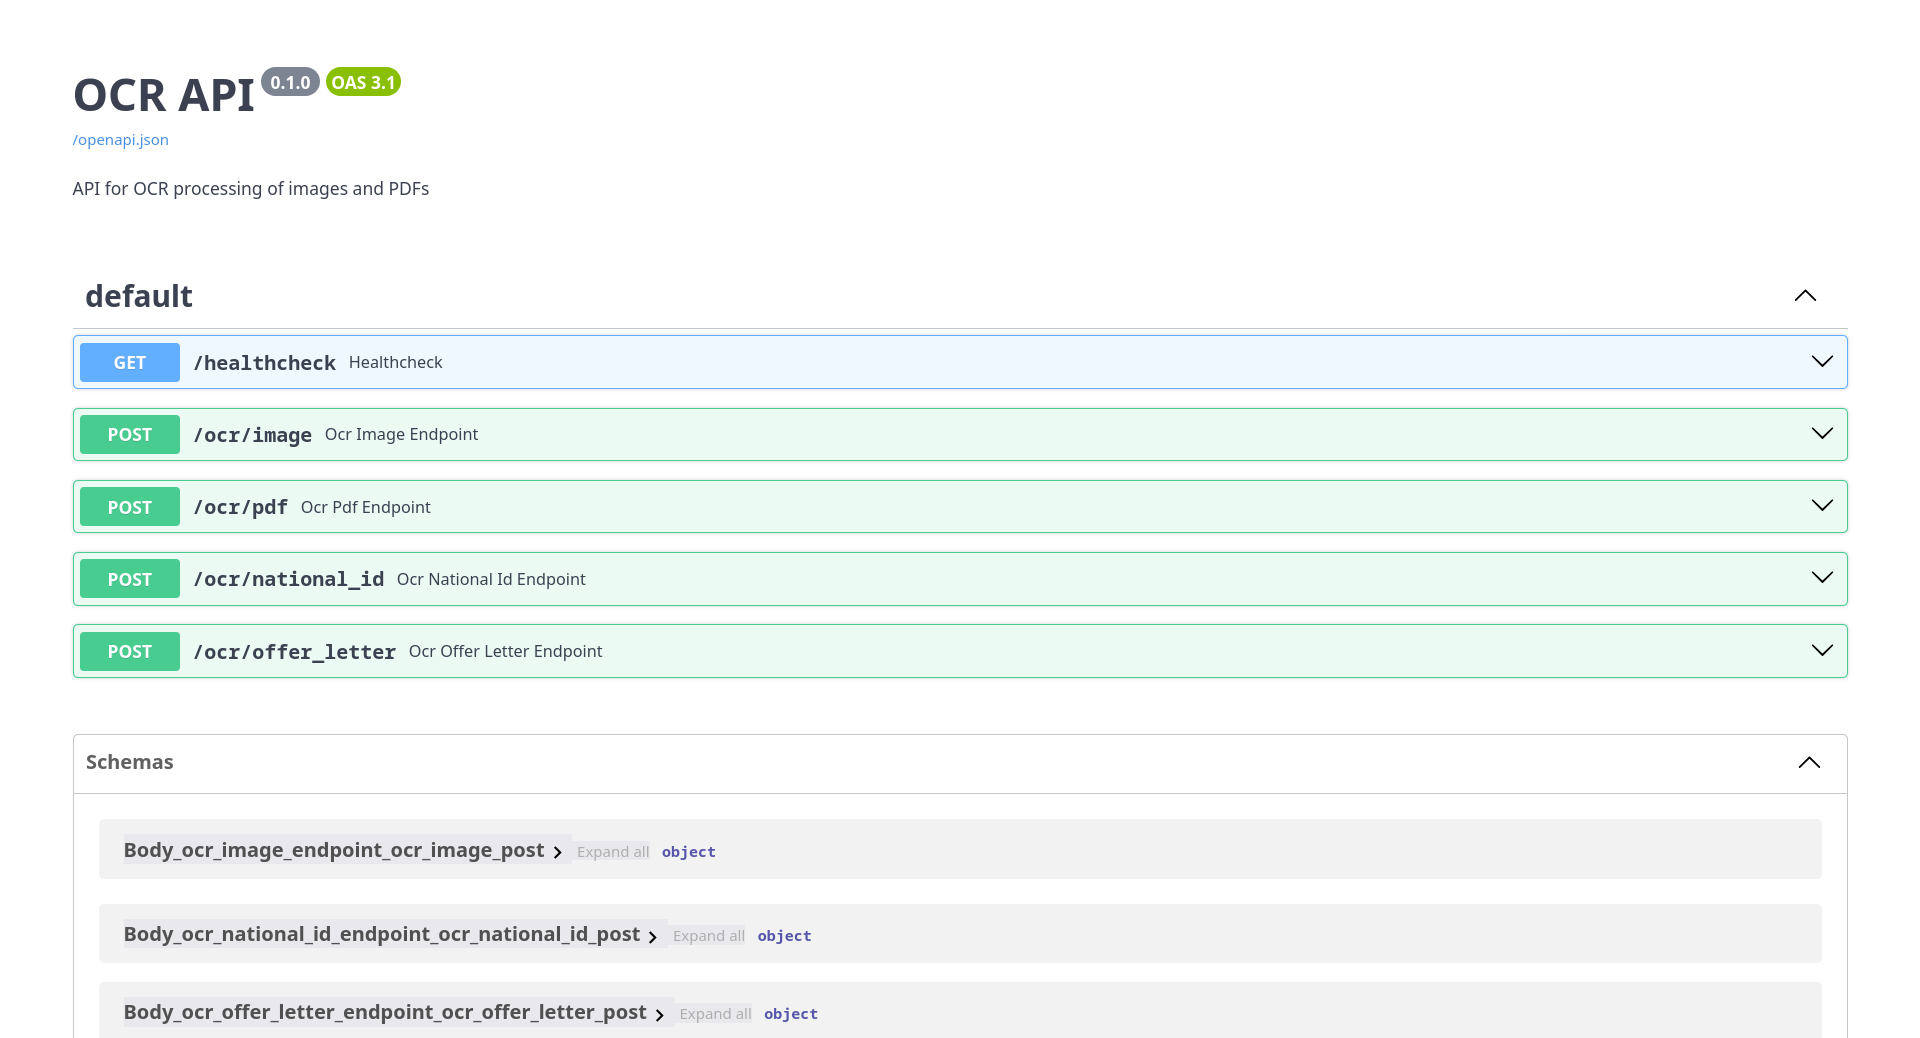
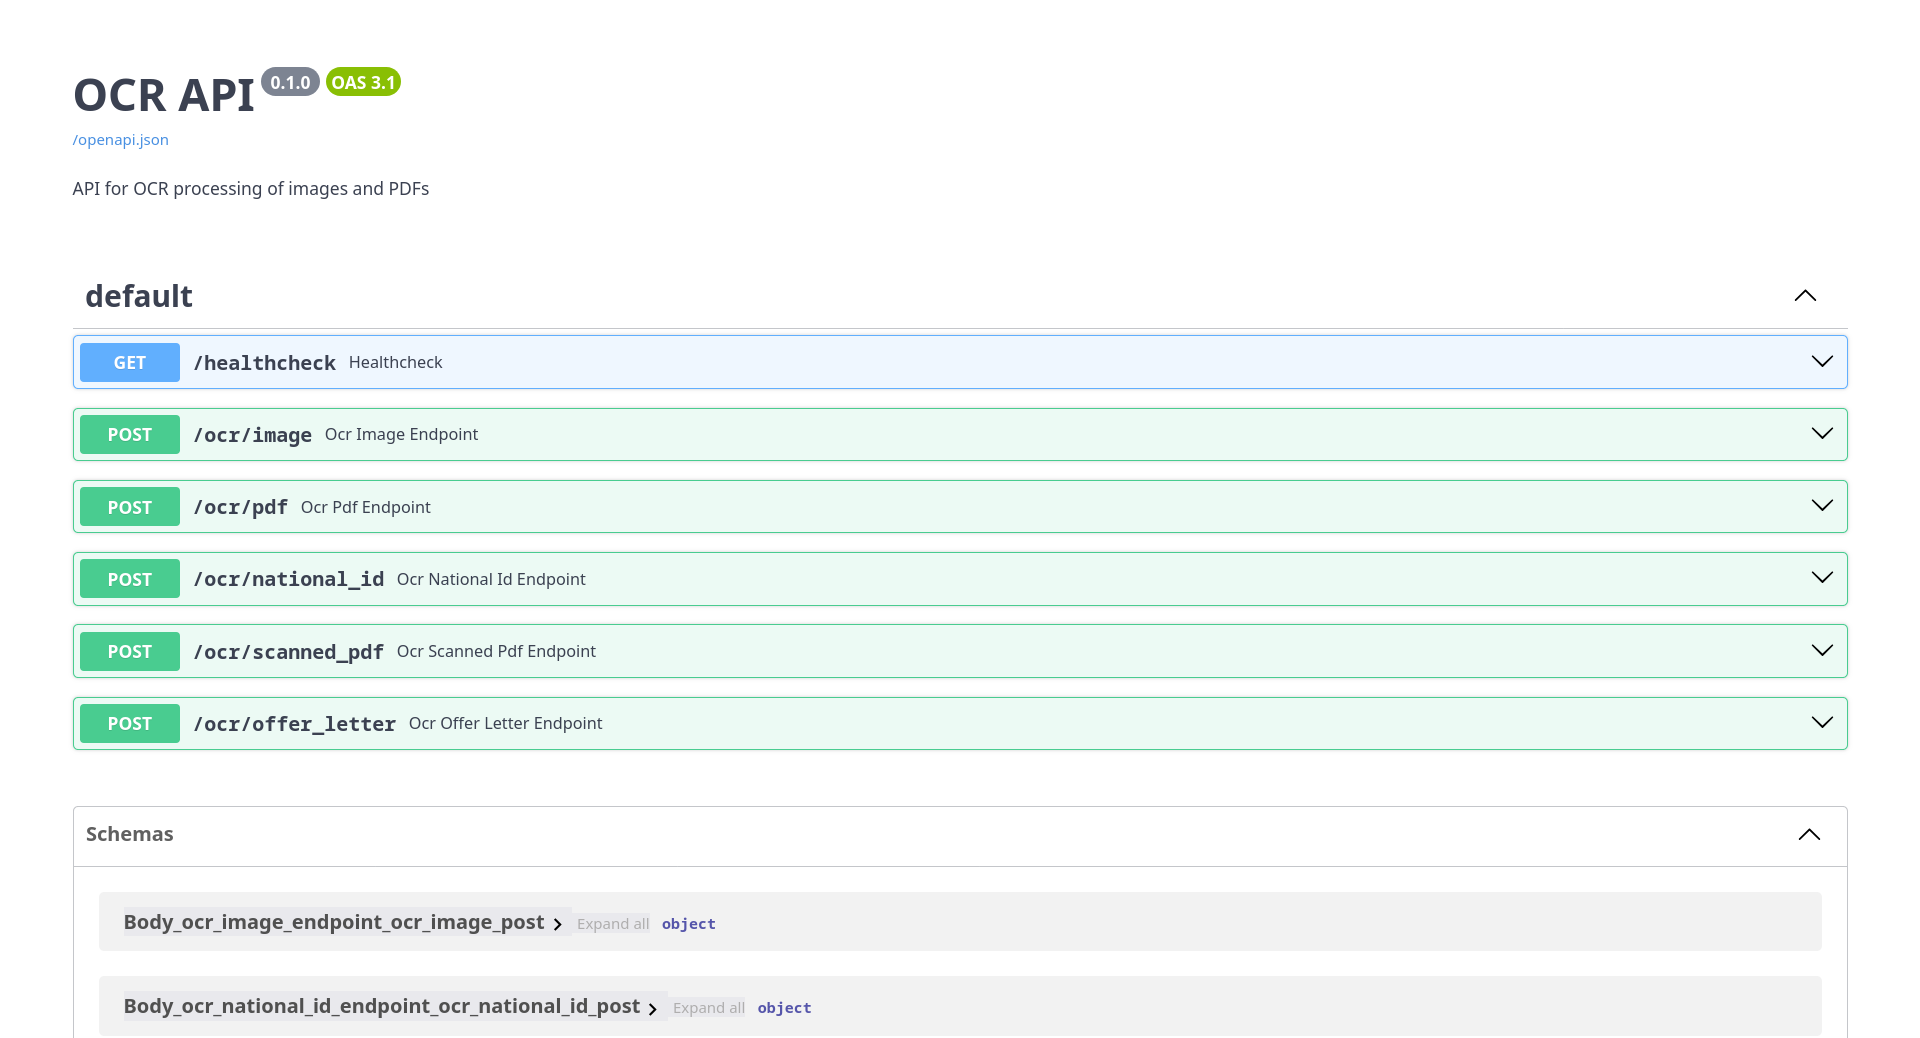
Update README - update api endpoints and add 'scanned_pdf' endpoint

diff --git a/README.md b/README.md
@@ -8,7 +8,8 @@
 - `/ocr/image`: OCR endpoint for single images. Accepts an image file, text prompt and an optional system prompt and provides unstructured output.
 - `/ocr/pdf`: OCR endpoint for PDF files with hybrid processing. Extracts text and embedded images, then processes each page and provides unstructured output.
 - `/ocr/national_id`: OCR endpoint for National ID cards with structured output. Returns validated JSON matching NationalIDData schema.
-- `/ocr/offer_letter`: OCR endpoint for Offer Letters with multi-page support and pre-processing. Returns validated JSON matching OfferLetterData schema.
+- `/ocr/scanned_pdf`: OCR endpoint for scanned PDFs (PDFs containing only images). Renders all pages as images and returns full transcription.
+- `/ocr/offer_letter`: OCR endpoint for Offer Letters with multi-page support. Returns validated JSON matching OfferLetterData schema.
 
 
 ## Application Architecture
